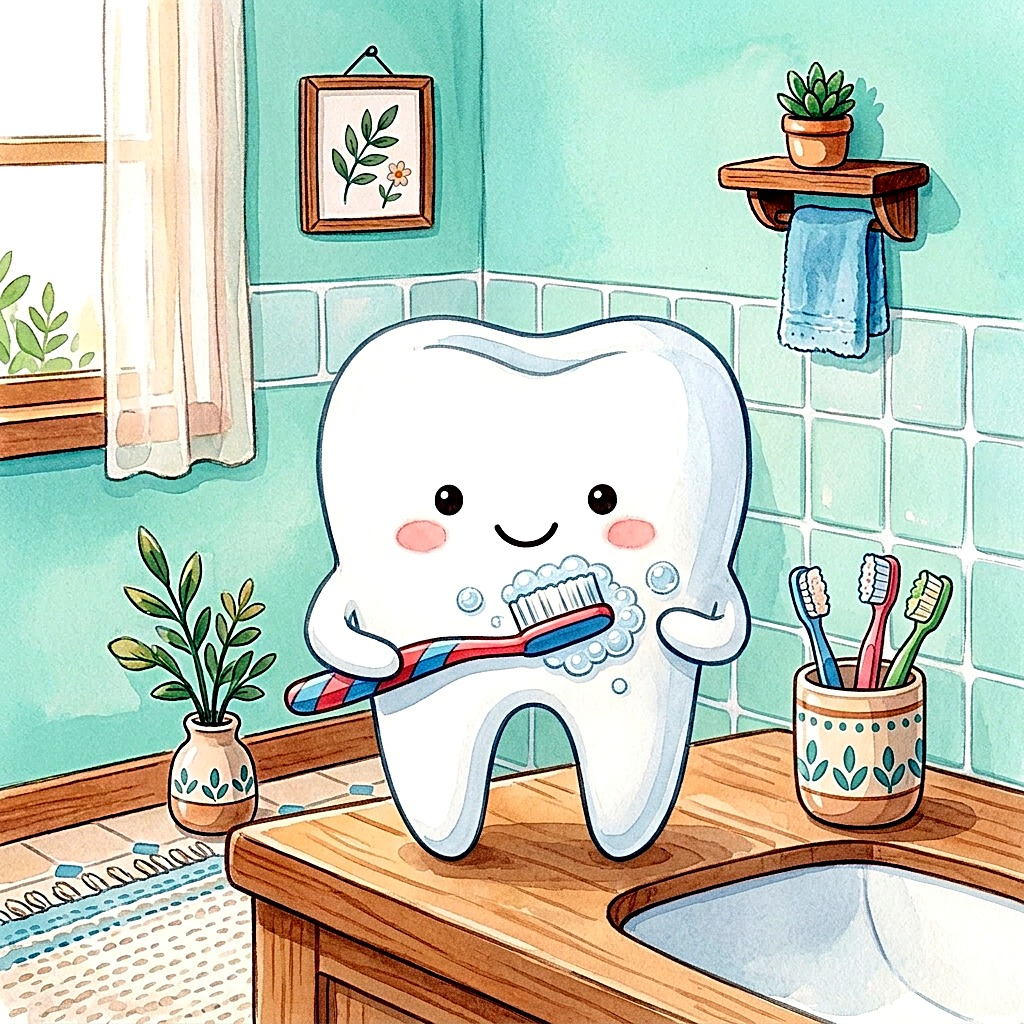
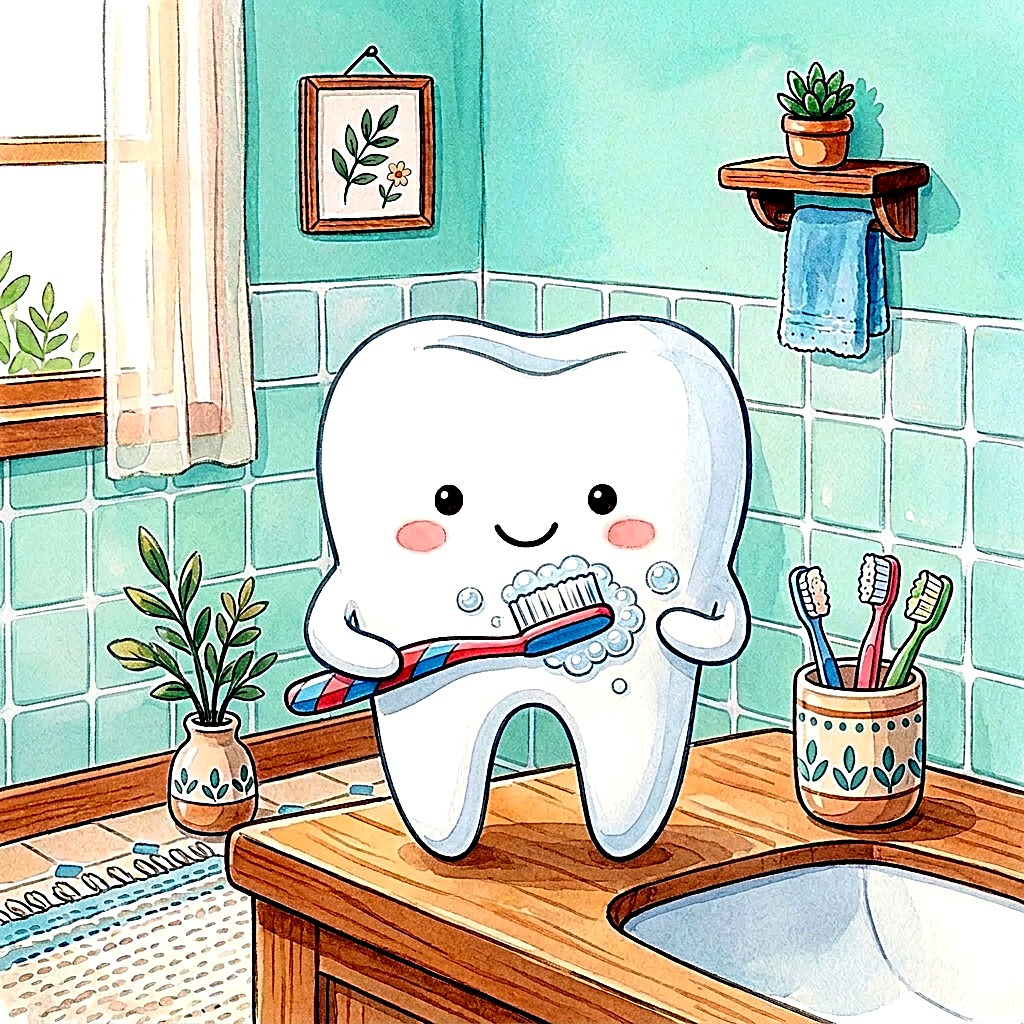
Picture: brush-teeth with tiles on both walls, like the bath and the toilet

diff --git a/output/en-example.html b/output/en-example.html
@@ -324,11 +324,11 @@
         </div>
         <div class="rt-check"></div>
       </div>
-      <div class="rt-pic pic-left" style="--step: #0D9488; --bg: #CEF3E7; --ink: #155E6D; --y: 205.857mm;">
+      <div class="rt-pic pic-left" style="--step: #0D9488; --bg: #CAF5EA; --ink: #155E6D; --y: 205.857mm;">
         <img src="../images/brush-teeth.jpg" alt="Brush teeth" />
         <div class="rt-num">7</div>
       </div>
-      <div class="rt-card card-left" style="--step: #0D9488; --bg: #CEF3E7; --ink: #155E6D; --y: 205.857mm;">
+      <div class="rt-card card-left" style="--step: #0D9488; --bg: #CAF5EA; --ink: #155E6D; --y: 205.857mm;">
         <div class="rt-text">
           <div class="rt-label">BRUSH TEETH</div>
           <div class="rt-time"><span class="blank"></span>:<span class="blank"></span></div>
@@ -471,11 +471,11 @@
         </div>
         <div class="rt-check"></div>
       </div>
-      <div class="rt-pic pic-left" style="--step: #0369A1; --bg: #CEF3E7; --ink: #0F467A; --y: 146.571mm;">
+      <div class="rt-pic pic-left" style="--step: #0369A1; --bg: #CAF5EA; --ink: #0F467A; --y: 146.571mm;">
         <img src="../images/brush-teeth.jpg" alt="Brush teeth" />
         <div class="rt-num">5</div>
       </div>
-      <div class="rt-card card-left" style="--step: #0369A1; --bg: #CEF3E7; --ink: #0F467A; --y: 146.571mm;">
+      <div class="rt-card card-left" style="--step: #0369A1; --bg: #CAF5EA; --ink: #0F467A; --y: 146.571mm;">
         <div class="rt-text">
           <div class="rt-label">BRUSH TEETH</div>
           <div class="rt-time"><span class="blank"></span>:<span class="blank"></span></div>

diff --git a/output/sl-primer.html b/output/sl-primer.html
@@ -313,11 +313,11 @@
         </div>
         <div class="rt-check"></div>
       </div>
-      <div class="rt-pic pic-right" style="--step: #16A34A; --bg: #AFE5D2; --ink: #1A664A; --y: 200.25mm;">
+      <div class="rt-pic pic-right" style="--step: #16A34A; --bg: #C6ECDA; --ink: #1A664A; --y: 200.25mm;">
         <img src="../images/brush-teeth.jpg" alt="Umij zobke" />
         <div class="rt-num">6</div>
       </div>
-      <div class="rt-card card-right" style="--step: #16A34A; --bg: #AFE5D2; --ink: #1A664A; --y: 200.25mm;">
+      <div class="rt-card card-right" style="--step: #16A34A; --bg: #C6ECDA; --ink: #1A664A; --y: 200.25mm;">
         <div class="rt-text">
           <div class="rt-label">UMIJ ZOBKE</div>
           <div class="rt-time"><span class="blank"></span>:<span class="blank"></span></div>
@@ -460,11 +460,11 @@
         </div>
         <div class="rt-check"></div>
       </div>
-      <div class="rt-pic pic-left" style="--step: #0369A1; --bg: #CEF3E7; --ink: #0F467A; --y: 146.571mm;">
+      <div class="rt-pic pic-left" style="--step: #0369A1; --bg: #CAF5EA; --ink: #0F467A; --y: 146.571mm;">
         <img src="../images/brush-teeth.jpg" alt="Umij zobke" />
         <div class="rt-num">5</div>
       </div>
-      <div class="rt-card card-left" style="--step: #0369A1; --bg: #CEF3E7; --ink: #0F467A; --y: 146.571mm;">
+      <div class="rt-card card-left" style="--step: #0369A1; --bg: #CAF5EA; --ink: #0F467A; --y: 146.571mm;">
         <div class="rt-text">
           <div class="rt-label">UMIJ ZOBKE</div>
           <div class="rt-time"><span class="blank"></span>:<span class="blank"></span></div>

diff --git a/web/data.js b/web/data.js
@@ -747,7 +747,7 @@ window.SHEET_DATA = {
 window.SHEET_EDGES = {
   "bath": ["#B3F4EE", "#98E3CD"],
   "breakfast": ["#FFCE86", "#FFD68A"],
-  "brush-teeth": ["#CEF3E7", "#AFE5D2"],
+  "brush-teeth": ["#CAF5EA", "#C6ECDA"],
   "care": ["#9EE3CA", "#BAE9D2"],
   "cartoon": ["#FAD9C2", "#FFFAC2"],
   "clear-table": ["#DAE0D1", "#EBD2B5"],
